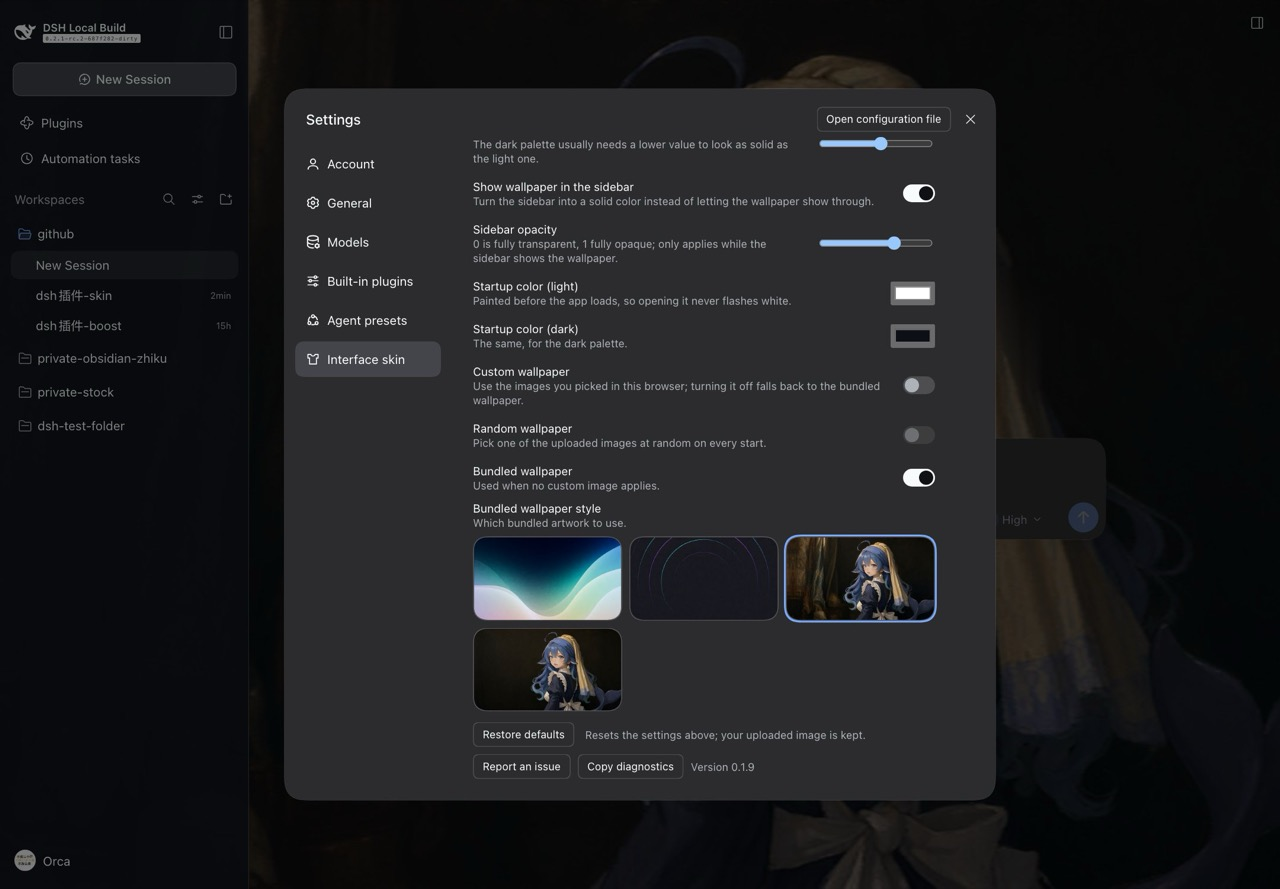
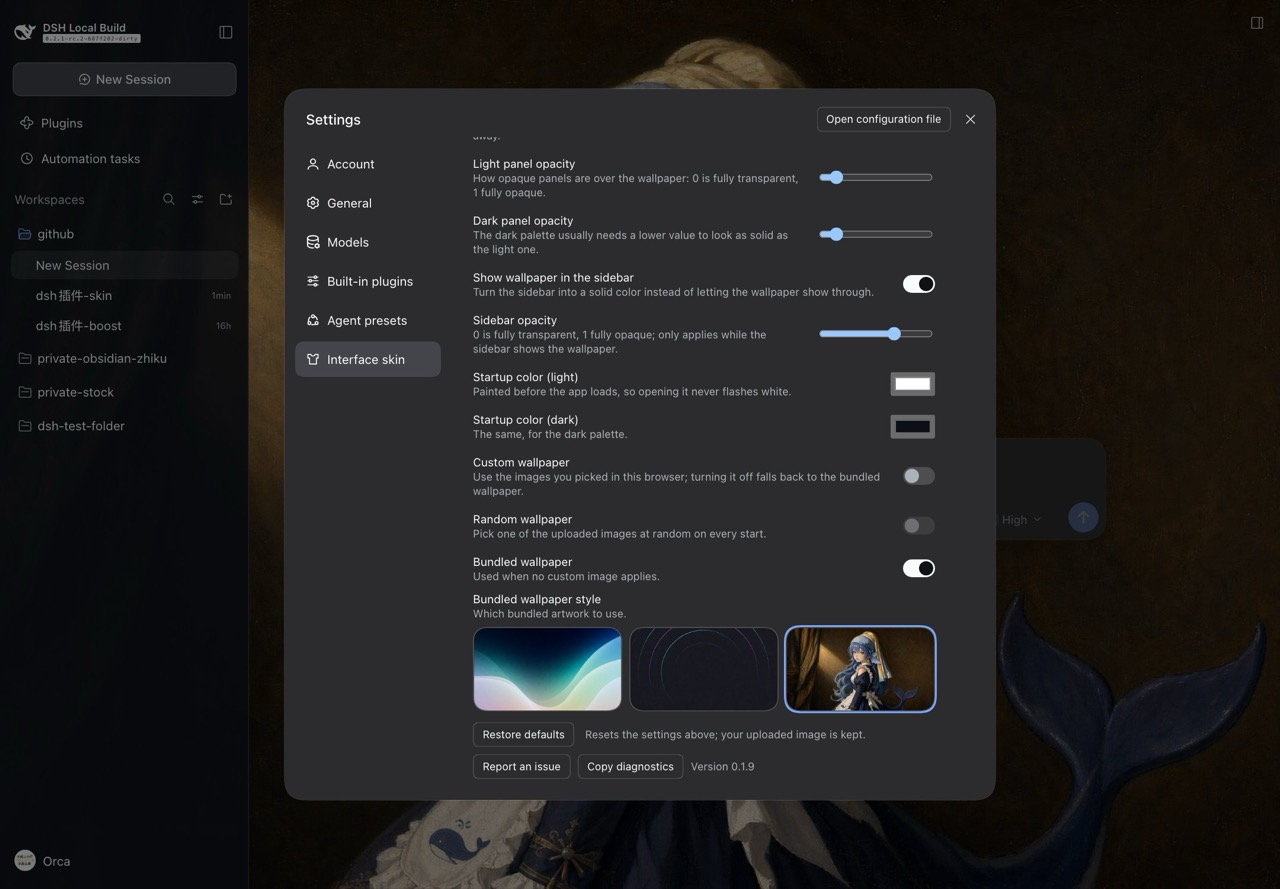
feat(shell-skin): keep the warm studio whale wallpaper
Use the 23-E02 frame as the single character preset, drop the other whale
variants and their masters. Presets are now aurora (default), arc, whale.

diff --git a/src/client/index.tsx b/src/client/index.tsx
@@ -18,8 +18,7 @@ import { createPortal } from 'react-dom'
 import type { ReactElement } from 'react'
 import wallpaperArc from '../../assets/wallpaper-arc.jpg'
 import wallpaperAurora from '../../assets/wallpaper-aurora.jpg'
-import wallpaperWhale1 from '../../assets/wallpaper-whale-1.jpg'
-import wallpaperWhale2 from '../../assets/wallpaper-whale-2.jpg'
+import wallpaperWhale from '../../assets/wallpaper-whale.jpg'
 import { en, zh, type SkinKey } from './locales.ts'
 import { SkinSettingsSection } from './SkinSettingsSection.tsx'
 import { addWallpaper, loadActiveId, loadLastPick, loadWallpapers, removeWallpaper, saveActiveId, saveLastPick, type StoredWallpaper } from './wallpaper-store.ts'
@@ -37,8 +36,7 @@ const NAV_GLYPH = `<svg xmlns="http://www.w3.org/2000/svg" viewBox="0 0 1024 102
 const PRESETS: readonly { id: string; src: string; labelKey: SkinKey }[] = [
   { id: 'aurora', src: wallpaperAurora, labelKey: 'preset.aurora' },
   { id: 'arc', src: wallpaperArc, labelKey: 'preset.arc' },
-  { id: 'whale-1', src: wallpaperWhale1, labelKey: 'preset.whale1' },
-  { id: 'whale-2', src: wallpaperWhale2, labelKey: 'preset.whale2' },
+  { id: 'whale', src: wallpaperWhale, labelKey: 'preset.whale' },
 ]
 
 /** Fast lookup for the applied background. */

diff --git a/src/client/locales.ts b/src/client/locales.ts
@@ -33,8 +33,7 @@ export const zh = {
   'preset.description': '选择使用哪一张内置壁纸。',
   'preset.aurora': '极光',
   'preset.arc': '几何弧线',
-  'preset.whale1': '鲸娘 1',
-  'preset.whale2': '鲸娘 2',
+  'preset.whale': '鲸娘',
   'image.title': '图片',
   'image.description': '最多 9 张，只保存在这台浏览器里，不会同步到其他设备。',
   'image.add': '添加图片',
@@ -94,8 +93,7 @@ export const en: Record<SkinKey, string> = {
   'preset.description': 'Which bundled artwork to use.',
   'preset.aurora': 'Aurora',
   'preset.arc': 'Arcs',
-  'preset.whale1': 'Whale 1',
-  'preset.whale2': 'Whale 2',
+  'preset.whale': 'Whale',
   'image.title': 'Images',
   'image.description': 'Up to 9 images, kept in this browser only and never synced.',
   'image.add': 'Add image',

diff --git a/README.md b/README.md
@@ -22,7 +22,7 @@
 | 功能 | 说明 |
 |---|---|
 | **开场动画** | 页面加载时播放一段约 1.5 秒的动画，然后淡出；系统开启“减少动态效果”时自动跳过 |
-| **壁纸** | 自带四张（极光 / 几何弧线 / 鲸娘 1 / 鲸娘 2）；也可以上传最多 9 张自己的图片，打开随机模式后每次启动换一张 |
+| **壁纸** | 自带三张（极光 / 几何弧线 / 鲸娘）；也可以上传最多 9 张自己的图片，打开随机模式后每次启动换一张 |
 | **面板透明度** | 分别控制浅色 / 深色下侧边栏和面板的透明度，拖动时实时预览 |
 | **启动时的底色** | 应用加载前先铺上颜色，避免打开瞬间闪白 |
 | **设置页** | 在「设置 → 界面皮肤」里，所有项即时生效 |
@@ -99,7 +99,7 @@ dsh plugin --profile web add "file:$PWD"
 | 自定义壁纸 / 内置壁纸 | 即时 |
 | 随机壁纸 | 即时（下次启动从已上传的图片里随机选一张） |
 | 图片 | 最多 9 张，支持一次选多张，每张上限 10 MB；点击缩略图切换，悬停右上角可删除 |
-| 内置壁纸样式 | 即时；四张缩略图，每行三张 |
+| 内置壁纸样式 | 即时；三张缩略图，每行三张 |
 | 恢复默认 | 即时重置上面所有设置项（不删除已上传的图片） |
 
 设置页底部还有两个按钮：「报告问题」打开带模板的 GitHub issue；「复制诊断信息」把版本、平台和当前设置复制到剪贴板——不含图片、文件名或任何个人信息。

diff --git a/CHANGELOG.md b/CHANGELOG.md
@@ -7,7 +7,7 @@
 - 插件图标换成角色立绘 PNG（256×256，白底已做透明处理）。
 - 内置壁纸增加两张可选样式：极光、几何弧线，默认改用极光。
 - 移除原来的经典壁纸（1120×630，在 2K 屏上偏糊）；旧配置里的 `classic` 会自动回退到极光。
-- 内置壁纸再增加两张角色立绘（鲸娘 1 / 鲸娘 2）。打包用 1920×1080 JPEG，原图保留在 `assets/master/`，不随 npm 包发布。
+- 内置壁纸增加一张角色立绘（鲸娘）。打包用 1920×1080 JPEG，原图保留在 `assets/master/`，不随 npm 包发布。
 - 自定义壁纸最多保留 9 张，支持一次选多张；点击缩略图切换当前使用的那张，旧版单图记录会自动迁移。
 - 新增「随机壁纸」开关：打开后每次启动从已上传的图片里随机选一张。
 - 设置页底部新增「报告问题」与「复制诊断信息」：前者打开带模板的 issue，后者只复制版本、平台和设置项，不包含图片或个人信息。
